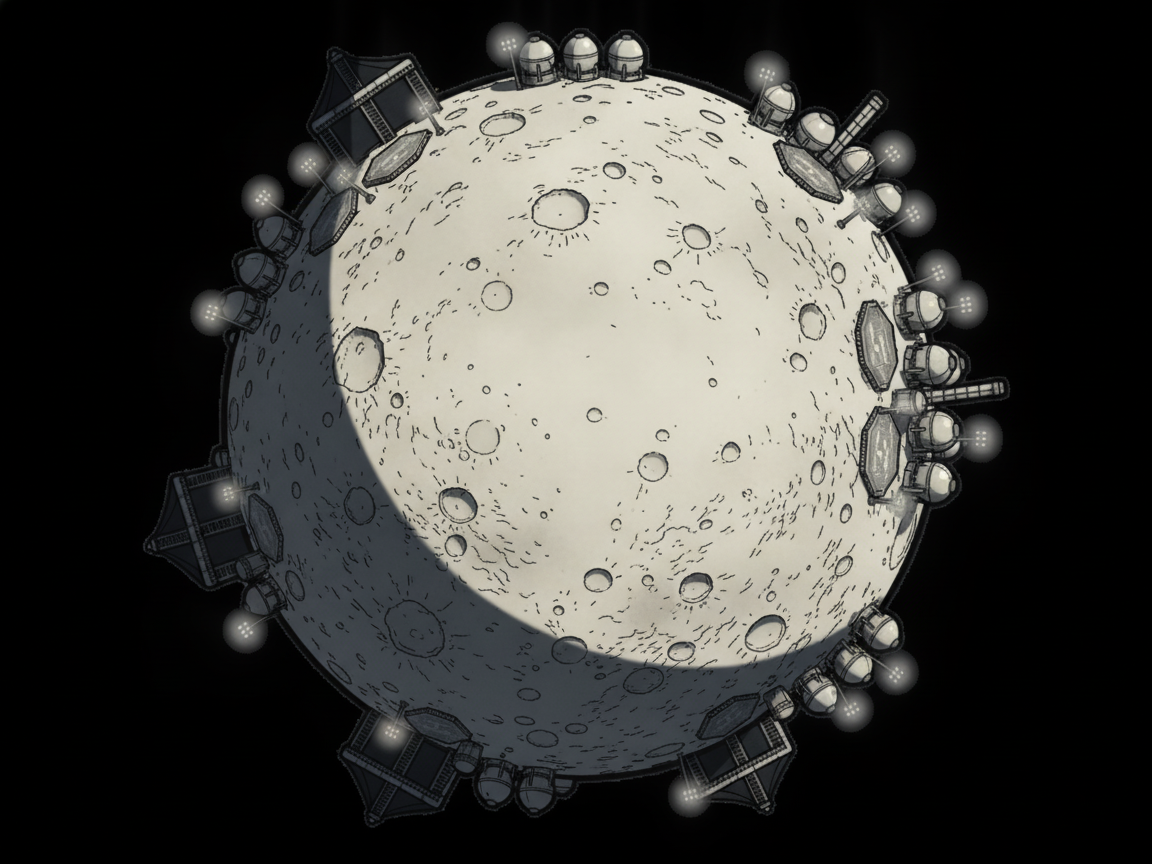
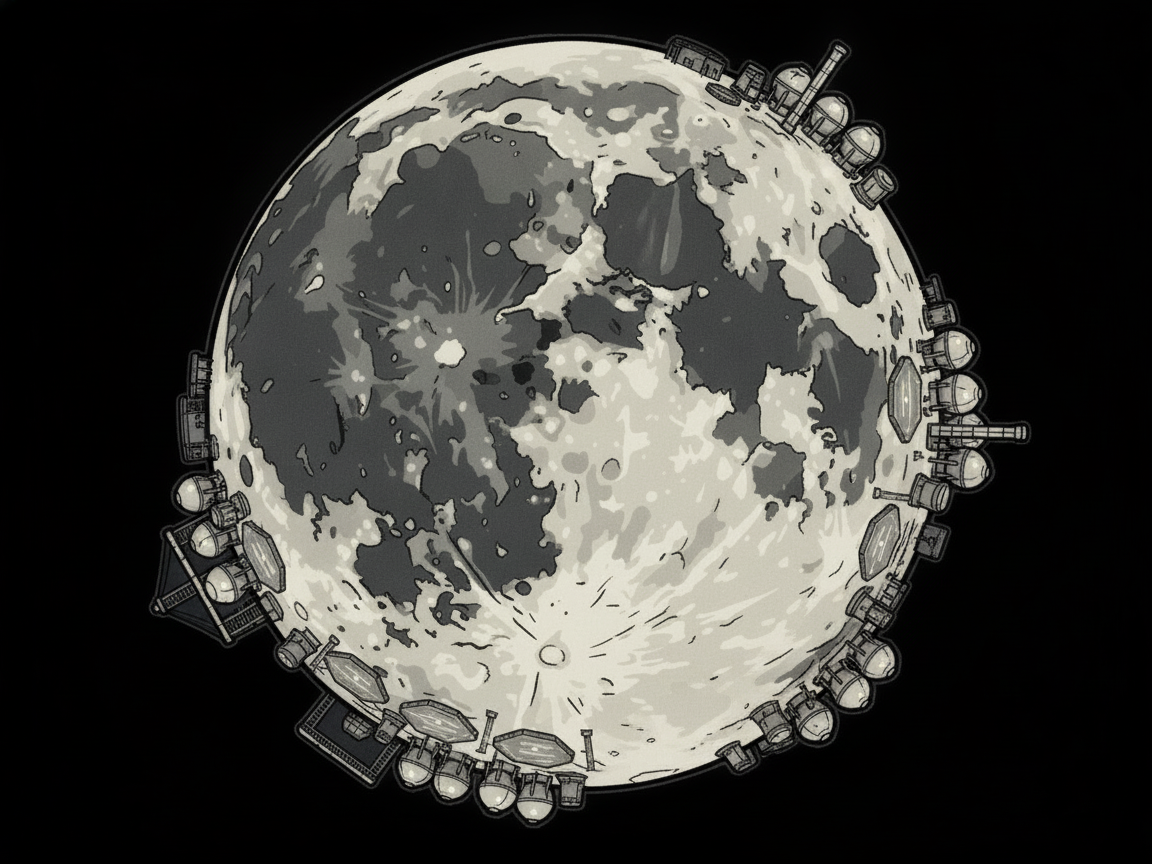
art(6.3): align Mars and Luna overview cards to planetary globe and maria landmarks (#73)

diff --git a/docs/art/prompt-bible.md b/docs/art/prompt-bible.md
@@ -85,7 +85,7 @@ Grounded to `Transit.STATIONS` (earth, luna, mars, ceres). `station-*` are 1:1 t
 - sample: no
 - ref: luna
 - source: Transit.STATIONS: luna
-- prompt: Card vignette illustration: wide view of a pale monochrome cratered moon with dark charcoal basalt maria, long flat shadow cuts across craters, and a perimeter fuel depot spaceport with clustered spherical tanks and floodlit landing pads breaking the lunar horizon. Strictly monochrome greyscale, zero rust, zero ochre. Cinematic composition, low horizon, strong flat shadow cuts.
+- prompt: Orbital vista of the cratered moon matching the reference icon: pale bone highland regolith sharply contrasted with large, prominent dark charcoal basalt maria plains across the lunar face, long flat shadow cuts across craters, and a perimeter fuel depot spaceport with clustered spherical tanks and floodlit landing pads breaking the curved lunar limb against deep slate-black space. Strict monochrome greyscale, high contrast between dark basalt maria and pale highlands, zero rust, zero ochre.
 
 ### card-mars
 - batch: 6.3
@@ -93,7 +93,7 @@ Grounded to `Transit.STATIONS` (earth, luna, mars, ceres). `station-*` are 1:1 t
 - sample: no
 - ref: mars
 - source: Transit.STATIONS: mars
-- prompt: Card vignette illustration: wide view of a rust-red desert world with dark-teal terraformed basin seas, polar ice cap in bone white, clustered dome habitats, and heavy industrial foundries and spaceport docks rooted firmly into bedrock along the basin shore. Zero canyon scars, zero cargo haulers. Bold uniform-weight black ink contours, prominent linework around every structure, flat hard shadow cuts. Cinematic composition, low horizon, strong flat shadow cuts.
+- prompt: Orbital vista showing the full planetary globe of Mars matching the reference icon: centered rust-red desert world against flat deep slate-black space, with dark-teal terraformed basin seas spreading across the visible face, a crisp bone-white polar ice cap, and squat industrial foundries and surface dome habitats rooted firmly into bedrock on the basin rim. Clean outer limb, zero canyon scars, zero cargo haulers. Bold uniform-weight black ink contours, prominent linework around every structure, flat hard shadow cuts.
 
 ### card-ceres
 - batch: 6.3
